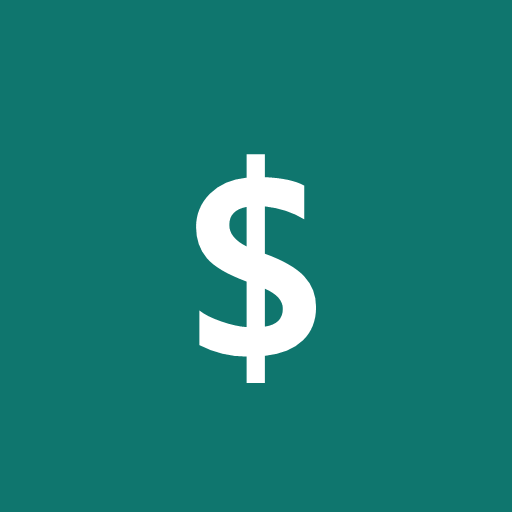
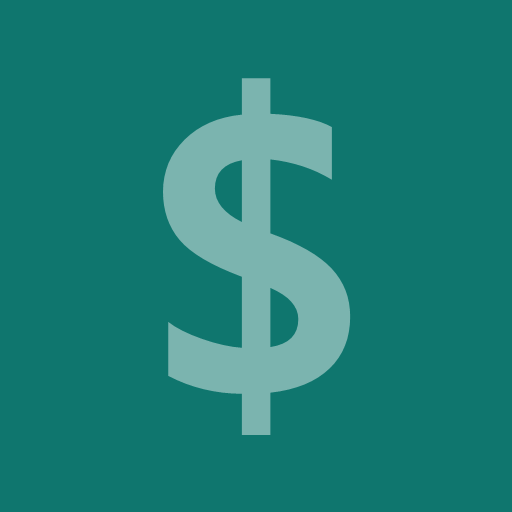
Ícono con el signo \$ más grande y semitransparente

Changed region(s): [[0.3125, 0.125, 0.6875, 0.875]]

diff --git a/index.html b/index.html
@@ -10,8 +10,8 @@
   <meta name="apple-mobile-web-app-status-bar-style" content="black-translucent">
   <meta name="apple-mobile-web-app-title" content="Gastos">
   <link rel="manifest" href="./manifest.json">
-  <link rel="apple-touch-icon" href="./icons/icon-180.png">
-  <link rel="icon" type="image/png" href="./icons/icon-192.png">
+  <link rel="apple-touch-icon" href="./icons/icon-180.png?v=2">
+  <link rel="icon" type="image/png" href="./icons/icon-192.png?v=2">
   <link rel="stylesheet" href="./styles.css">
 </head>
 <body>

diff --git a/sw.js b/sw.js
@@ -1,5 +1,5 @@
 // Cambiá VERSION cada vez que subas cambios a GitHub.
-const VERSION = 'gastos-v4';
+const VERSION = 'gastos-v5';
 const ARCHIVOS = [
   './',
   './index.html',
